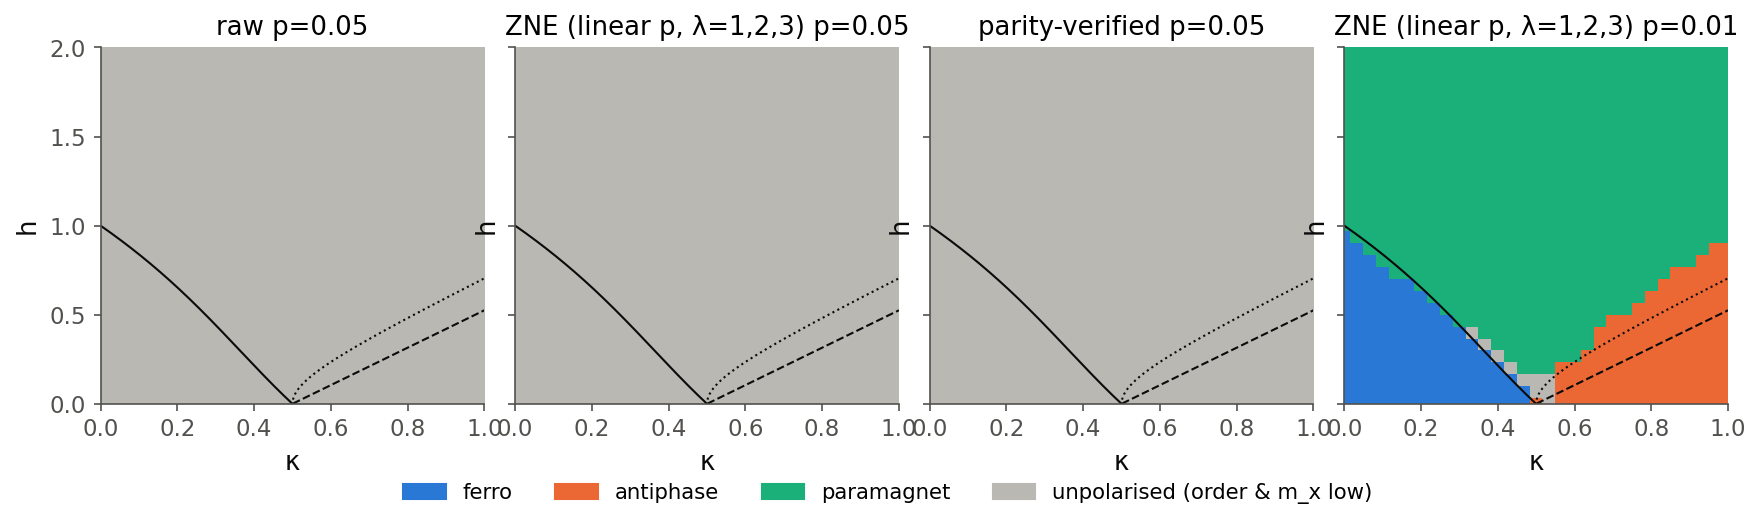
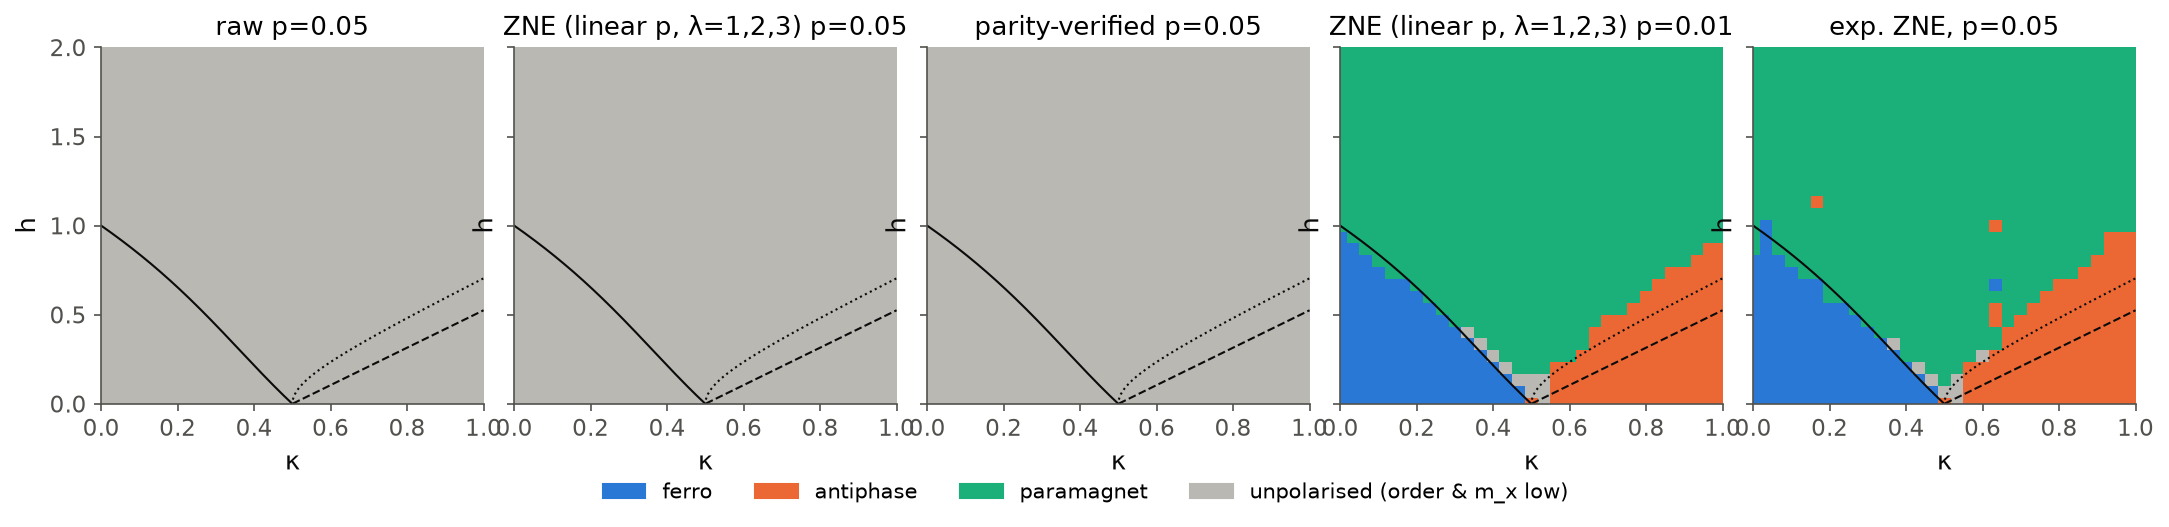
Add two-point exponential ZNE at p=0.01 and 0.05

diff --git a/Scientific Track/team/src/fig_mitigation.py b/Scientific Track/team/src/fig_mitigation.py
@@ -30,6 +30,69 @@ def richardson(vals, c):
     return sum(gi * v for gi, v in zip(g, vals)), g
 
 
+def exp_zne(v1, v2):
+    """Two-point exponential extrapolation (lambda = 1, 2): v0 = v1^2/v2 where v1, v2 have the same
+    sign (and v2 != 0), else the linear Richardson value 2 v1 - v2. Returns (v0, used_exp mask, r=v1/v2)."""
+    v1 = np.asarray(v1, float); v2 = np.asarray(v2, float)
+    same = (v1 * v2 > 0)
+    with np.errstate(divide="ignore", invalid="ignore"):
+        r = np.where(same, v1 / v2, np.nan)
+        v0 = np.where(same, v1 ** 2 / v2, 2 * v1 - v2)
+    return v0, same, r
+
+
+def exponential_zne_report(nz, ex, ed, T, Tx, K, H):
+    """Exponential ZNE at p = 0.01 and 0.05 (lambda = 1, 2; p=0 truth held out)."""
+    OFe, OAe = pa.orders(ed["Sq"], N)
+    lab_ed = pa.classify(OFe, OAe, ed["mx"], T, Tx)
+    C0, x0 = nz["p0.0_Cij"], nz["p0.0_mx"]
+    lab_clean = pa.classify(*pa.orders(sq_from_cij(C0), N), x0, T, Tx)
+    off = ~np.eye(N, dtype=bool)
+    out, mitig = {}, {}
+    for p, k2 in ((0.01, "lin_0.02"), (0.05, "lin_0.1")):
+        C1, C2 = nz[f"p{p}_Cij"], ex[f"{k2}_Cij"]
+        Cm, same, r = exp_zne(C1, C2)
+        xm, samex, rx = exp_zne(nz[f"p{p}_mx"], ex[f"{k2}_mx"])
+        Sm = sq_from_cij(Cm)
+        OF, OA = pa.orders(Sm, N)
+        lab = pa.classify(OF, OA, xm, T, Tx)
+        rr = r[..., off][same[..., off]]
+        amp = 4 * rr ** 2 + rr ** 4
+        dC_elem = np.abs(Cm - C0)[..., off]
+        out[f"p{p}"] = {
+            "scale_points": [p, 2 * p],
+            "label_agreement_with_clean_circuit": float(np.mean(lab == lab_clean)),
+            "label_agreement_with_ED": float(np.mean(lab == lab_ed)),
+            "median_abs_dCij_per_point_mean": float(np.median(dC_elem.mean(-1))),
+            "median_abs_dCij_all_elements": float(np.median(dC_elem)),
+            "median_abs_dmx": float(np.median(np.abs(xm - x0))),
+            "raw_median_abs_dCij_per_point_mean": float(np.median(np.abs(C1 - C0)[..., off].mean(-1))),
+            "raw_median_abs_dmx": float(np.median(np.abs(nz[f"p{p}_mx"] - x0))),
+            "fraction_Cij_exponential": float(same[..., off].mean()),
+            "fraction_mx_exponential": float(samex.mean()),
+            "variance_amplification_median_4r2_plus_r4": float(np.median(amp)),
+            "variance_amplification_p90": float(np.percentile(amp, 90)),
+            "label_counts": [int((lab == i).sum()) for i in range(4)],
+        }
+        mitig[p] = dict(OF=OF, OA=OA, mx=xm, lab=lab)
+    # threshold boundaries after exponential ZNE at p = 0.05
+    OFc, OAc = pa.orders(sq_from_cij(C0), N)
+    bnd = {}
+    for kv in (0.2, 0.3, 0.8, 0.9):
+        i = int(np.argmin(np.abs(K - kv)))
+        ph = 0 if OFc[i, 0] >= OAc[i, 0] else 1
+        yc = (OFc, OAc)[ph][i]; ye = (mitig[0.05]["OF"], mitig[0.05]["OA"])[ph][i]
+        hc, he = pa._crossing(H, yc, T), pa._crossing(H, ye, T)
+        bnd[f"kappa_{K[i]:.3f}"] = {"order": ["ferro", "antiphase"][ph], "h_T_clean_circuit": hc,
+                                    "h_T_expZNE_p0.05": he, "shift": he - hc}
+    out["boundaries_p0.05"] = bnd
+    out["method"] = ("two-point exponential extrapolation C0=C1^2/C2 (same sign) else 2C1-C2, lambda=1,2 "
+                     "(p, 2p) from noisy_hva and noisy_extras; applied to each C_ij and to m_x; S(q) rebuilt "
+                     "before classifying with the fixed clean-ED thresholds; variance amplification 4r^2+r^4, r=C(p)/C(2p)")
+    pa.save_json(AN / "zne_exponential.json", out)
+    return out, mitig
+
+
 def main():
     cal, ed, vq, nz, ex = load_all()
     assert ex is not None, "extras scan required"
@@ -112,13 +175,18 @@ def main():
         for r in rows:
             w.writerow({k: f"{v:.4f}" for k, v in r.items()})
     pa.save_json(AN / "mitigation_summary_N8_L4.json", report)
+    expo, expm = exponential_zne_report(nz, ex, ed, T, Tx, K, H)
+    print(json.dumps(expo, indent=1))
     # figures: mitigated diagrams
-    fig, axs = plt.subplots(1, 4, figsize=(14, 3.6), sharey=True)
+    fig, axs = plt.subplots(1, 5, figsize=(17.5, 3.6), sharey=True)
     KK, HH = np.meshgrid(K, H, indexing="ij")
     for ax, (key, title) in zip(axs, [("raw0.05", "raw p=0.05"), ("p0.05_lin_R3", "ZNE (linear p, λ=1,2,3) p=0.05"),
-                                        ("ver0.05", "parity-verified p=0.05"), ("p0.01_lin_R3", "ZNE (linear p, λ=1,2,3) p=0.01")]):
+                                        ("ver0.05", "parity-verified p=0.05"), ("p0.01_lin_R3", "ZNE (linear p, λ=1,2,3) p=0.01"),
+                                        ("exp0.05", "exp. ZNE, p=0.05")]):
         if key == "raw0.05":
             lab = pa.classify(*pa.orders(nz["p0.05_Sq"], N), nz["p0.05_mx"], T, Tx)
+        elif key == "exp0.05":
+            lab = expm[0.05]["lab"]
         elif key == "ver0.05":
             lab = pa.classify(*pa.orders(nz["p0.05_Sq_ver"], N), nz["p0.05_mx_ver"], T, Tx)
         else:
